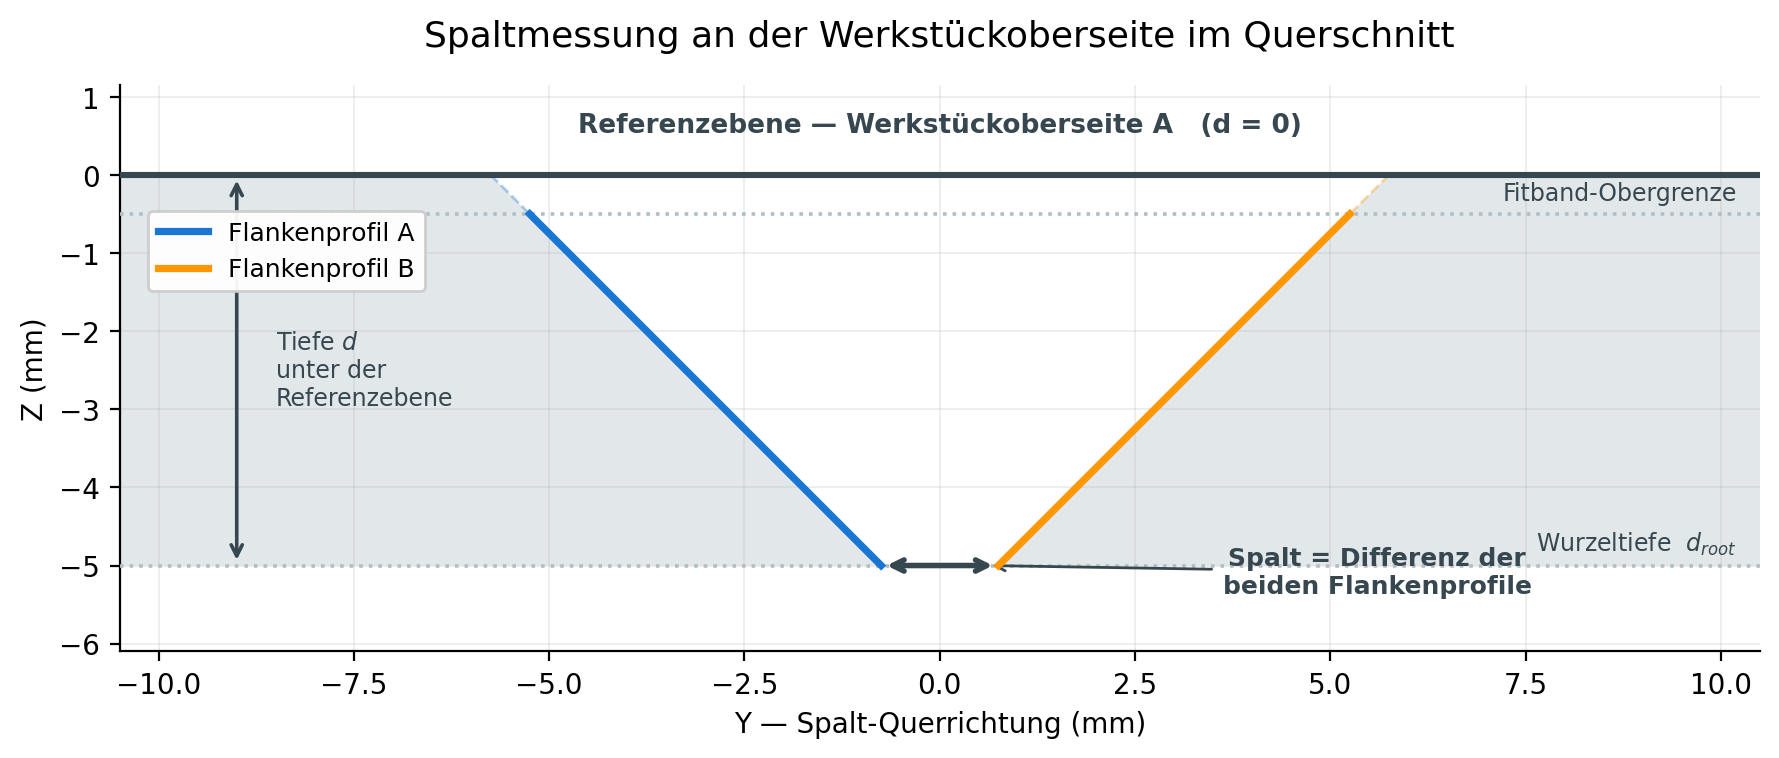
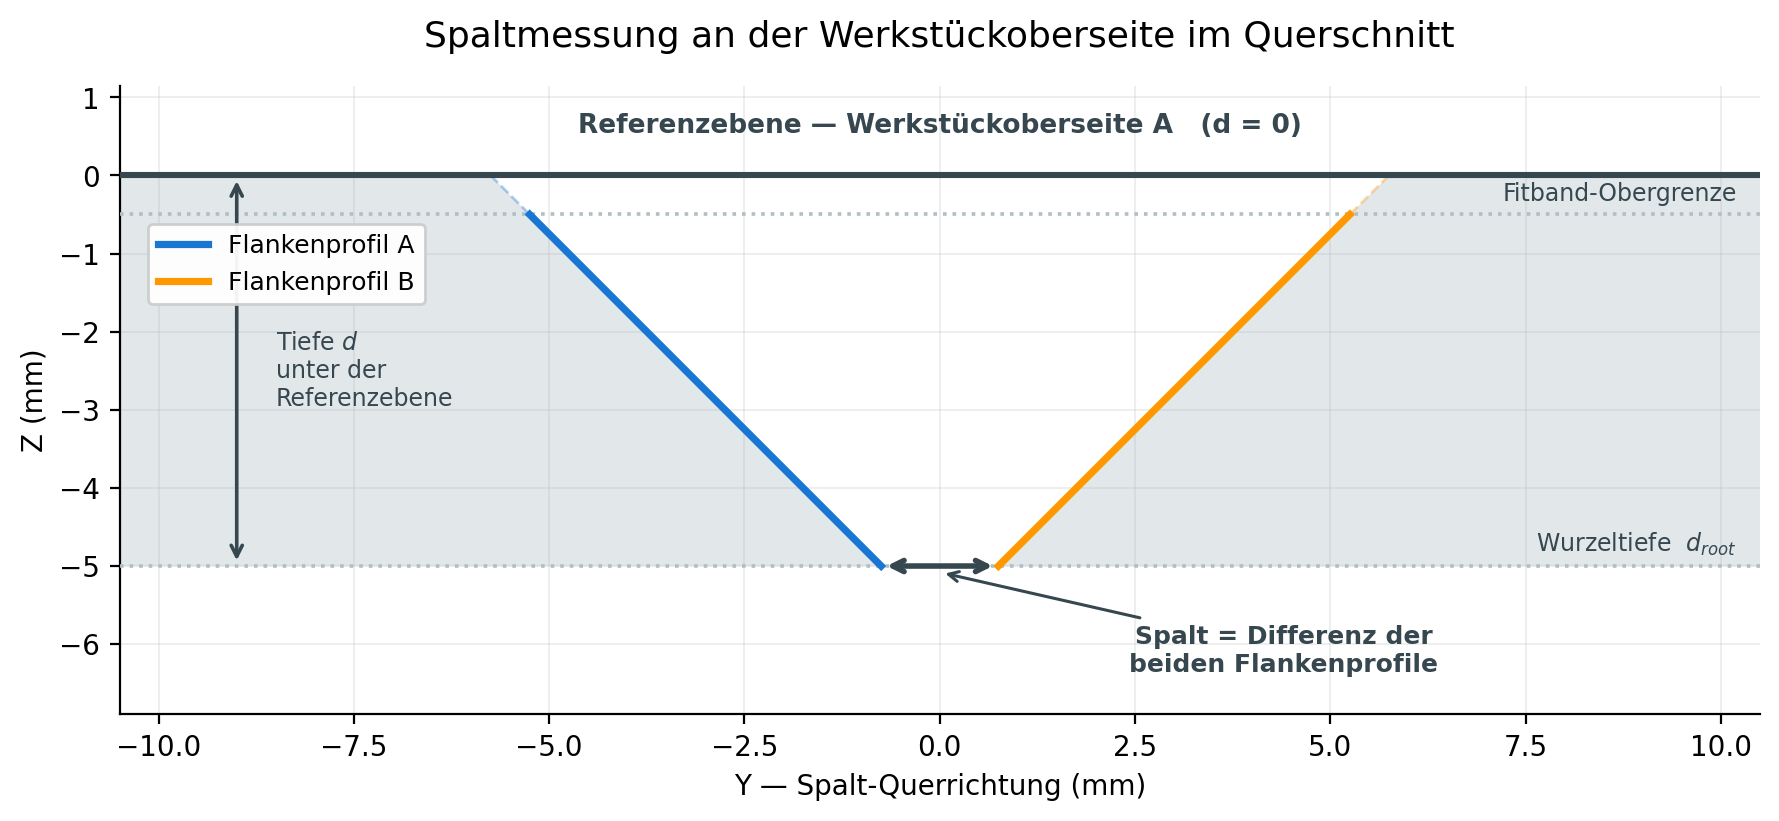
docs: Hinweispfeil in Bild 5.4 schraeg statt waagerecht
Der Pfeil zu "Spalt = Differenz der beiden Flankenprofile" verlief nahezu
waagerecht auf Hoehe der Wurzel und endete direkt am unteren Ende von
Flanke B - dort ging er optisch unter. Text jetzt tiefer im freien Bereich
unter dem Blech, der Pfeil laeuft von dort schraeg auf die Spaltbemassung
zu und kreuzt keine Flanke mehr.

diff --git a/scripts/generate_methodik_figures.py b/scripts/generate_methodik_figures.py
@@ -181,13 +181,15 @@ def figure_cross_section(path: Path):
     y_b = +(ROOT_GAP / 2 + (THICK - d_root) * TAN_A)
     ax.annotate("", xy=(y_b, -d_root), xytext=(y_a, -d_root),
                 arrowprops=dict(arrowstyle="<->", color=C_REF, lw=2.0))
+    # Text tiefer und der Hinweispfeil schraeg: waagerecht lief er auf Hoehe
+    # des Flankenendes und ging dort optisch unter.
     ax.annotate("Spalt = Differenz der\nbeiden Flankenprofile",
-                xy=(0.6, -d_root), xytext=(5.6, -THICK - 0.35),
-                color=C_REF, fontsize=9, ha="center", weight="bold",
-                arrowprops=dict(arrowstyle="->", color=C_REF, lw=1.0))
+                xy=(0.0, -d_root - 0.08), xytext=(4.4, -THICK - 0.75),
+                color=C_REF, fontsize=9, ha="center", va="top", weight="bold",
+                arrowprops=dict(arrowstyle="->", color=C_REF, lw=1.1))
 
     ax.set_xlim(-x_lim, x_lim)
-    ax.set_ylim(-THICK - 1.1, 1.15)
+    ax.set_ylim(-THICK - 1.9, 1.15)
     ax.set_aspect("equal")
     _style(ax, "Y — Spalt-Querrichtung (mm)", "Z (mm)")
     ax.set_title("Spaltmessung an der Werkstückoberseite im Querschnitt",
